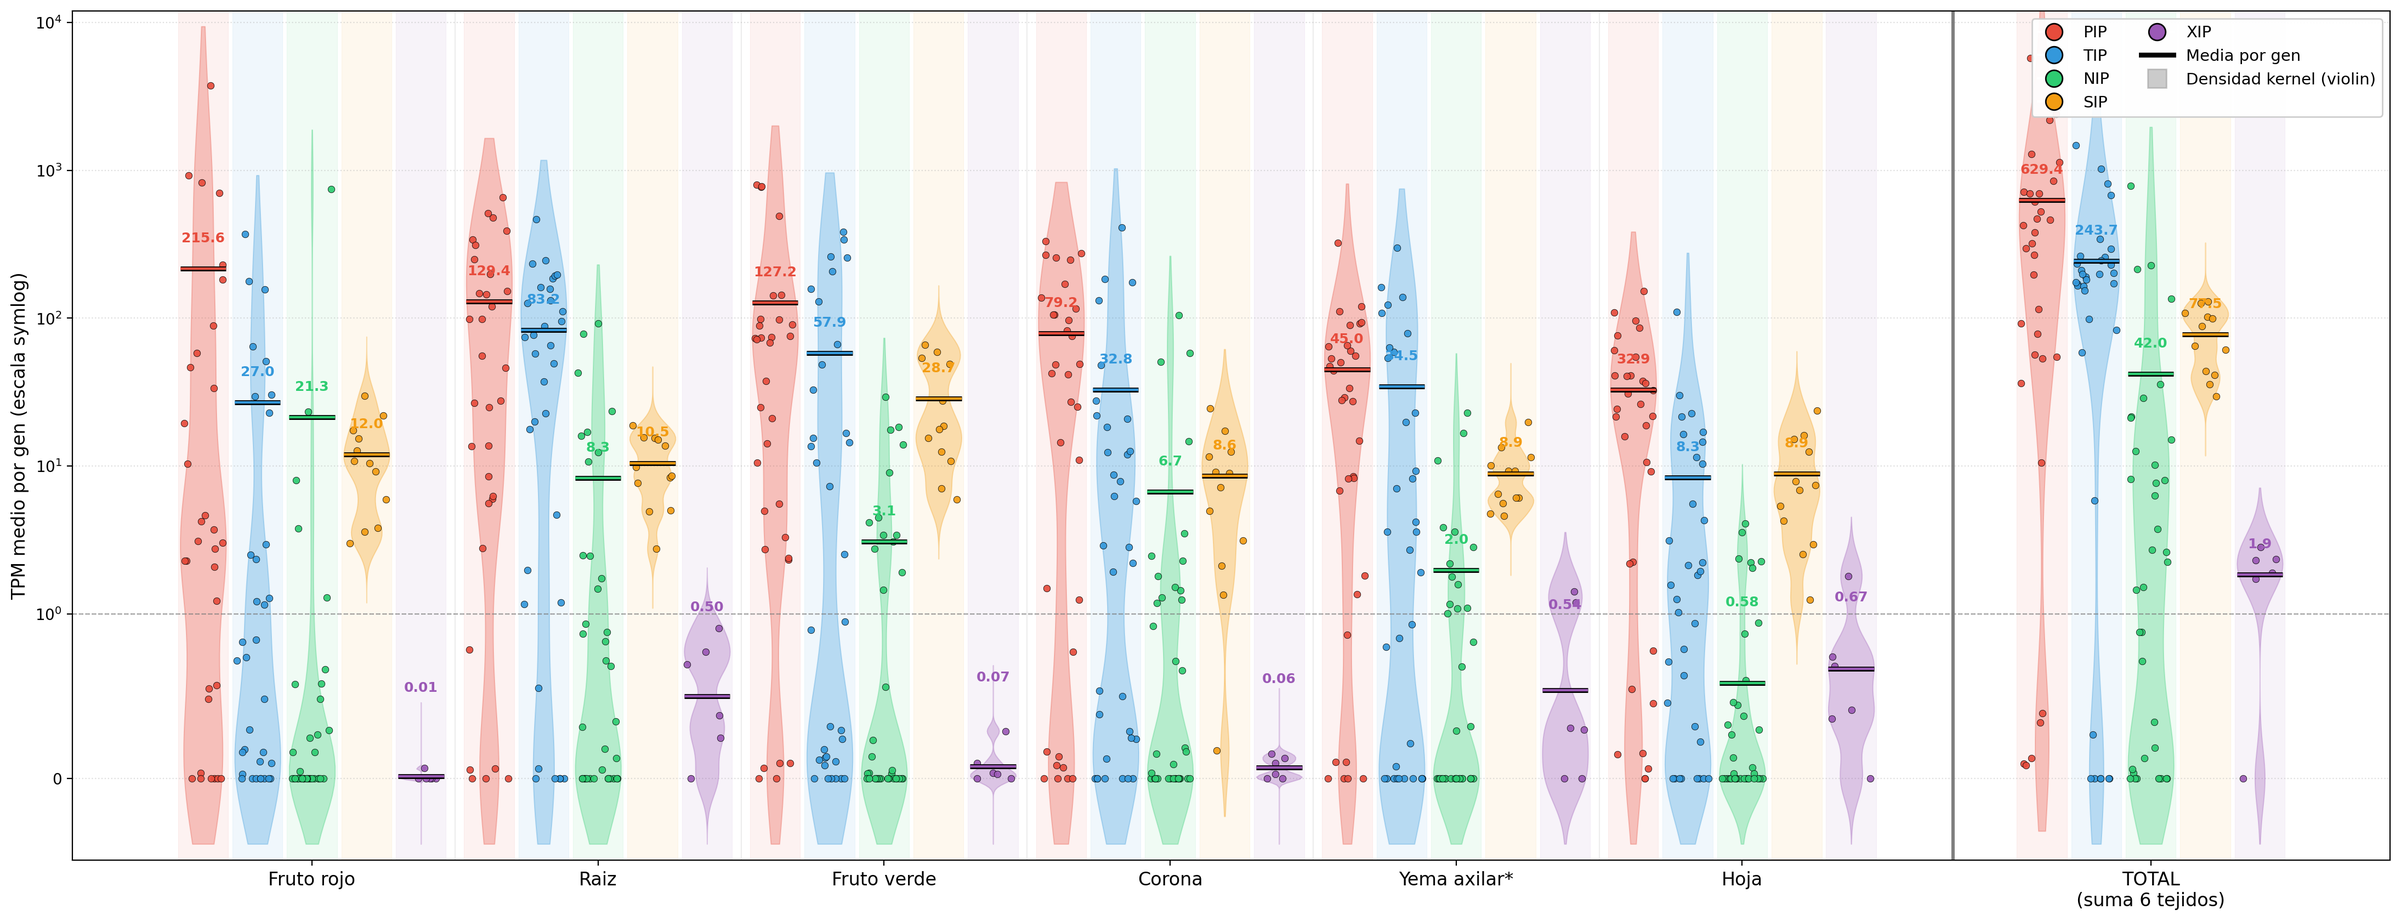
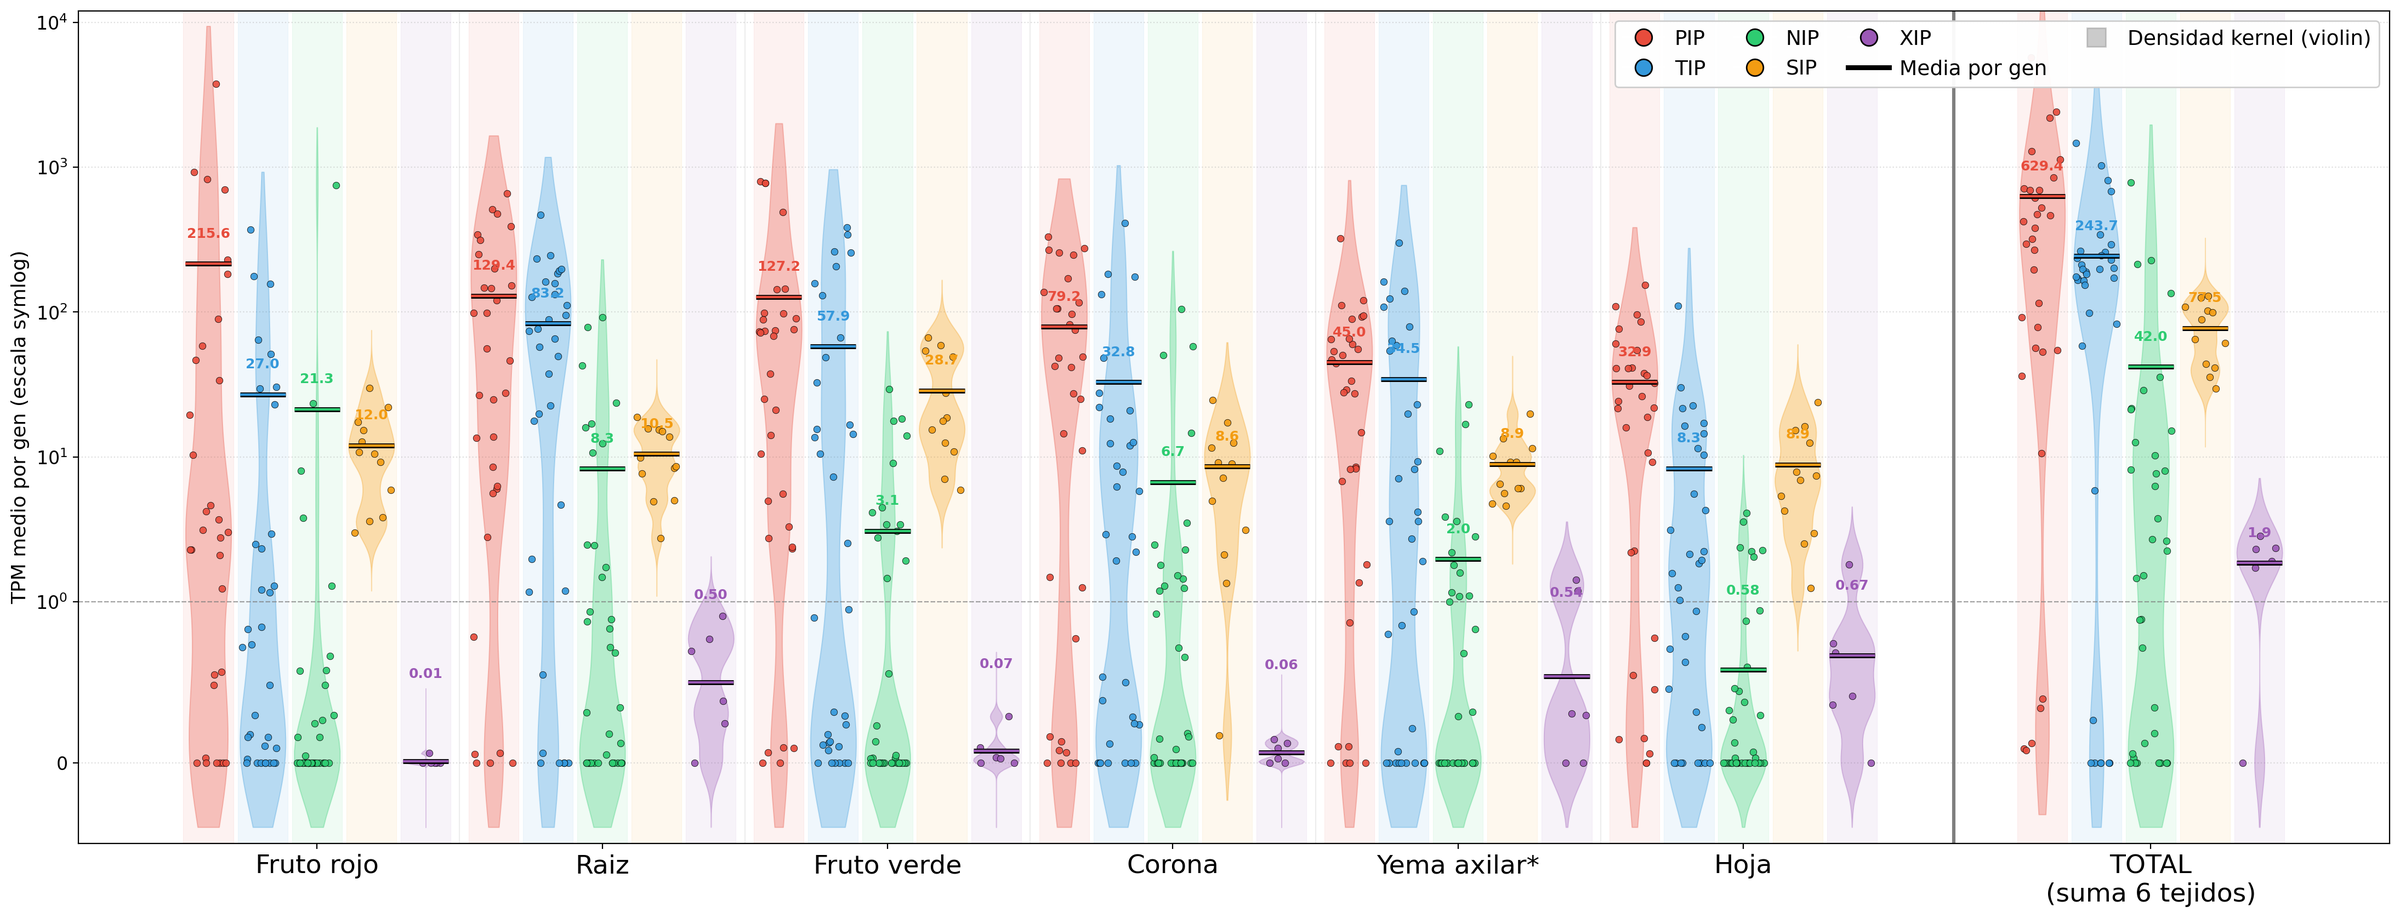
docs(defensa): leyenda Mol* mayor (4), cronologia simplificada (5), quita genoma cuadruple (15), Fig9 ejes/leyenda mas legibles (17)

diff --git a/docs/defensa/index.html b/docs/defensa/index.html
@@ -18,7 +18,7 @@
 
 "• Una acuaporina es un poro de proteína que deja pasar agua a favor de gradiente, de forma pasiva: el agua va de donde sobra a donde falta sin que la célula gaste energía.\n• Por dentro tiene forma de reloj de arena: seis hélices que cruzan la membrana más dos reentrantes, dejando un poro de unos 3 ångström, el ancho justo para una hilera de moléculas de agua.\n• La selectividad la marcan dos filtros: el doble motivo NPA corta el paso de protones y el filtro ar/R afina el tamaño.\n• En la membrana se ensamblan como tetrámeros, pero cada monómero lleva su propio poro: cuatro canales independientes.\n• Esta arquitectura, conservada entre especies, es la que permite reconocer una acuaporina en cualquier genoma; y existe en varios subtipos, cuyos nombres veremos en el catálogo.\n• En pantalla, la estructura real (PDB 1Z98, cadena A, acuaporina de espinaca) en el visor Mol* en vivo, rotable.",
 
-"• Antes de los genes, una pincelada de qué planta es esta, porque explica los subgenomas y los homeólogos. Es contexto conocido, no forma parte del análisis del TFG.\n• La fresa cultivada es alo-octoploide: 2n = 8x = 56. Junta en un mismo núcleo cuatro juegos cromosómicos completos —los subgenomas A, B, C y D— procedentes de cuatro especies diploides distintas; las mejor caracterizadas son F. vesca y F. iinumae, las otras dos no están claras.\n• Esos cuatro genomas acabaron reunidos en dos fresas silvestres octoploides: F. chiloensis (aporta calibre) y F. virginiana (aporta sabor y color).\n• De su cruce espontáneo en Europa, en el siglo XVIII, nació la fresa cultivada, F. x ananassa; 'Benihoppe' es un cultivar moderno. Es, por tanto, una especie muy joven.\n• Idea clave para el final: cuatro subgenomas → cada gen ancestral existe en hasta cuatro copias casi idénticas → esas copias equivalentes son los HOMEÓLOGOS.",
+"• Antes de los genes, una pincelada de qué planta es esta, porque explica los subgenomas y los homeólogos. Es contexto conocido, no forma parte del análisis del TFG.\n• La fresa cultivada es alo-octoploide: 2n = 8x = 56. Junta en un mismo núcleo cuatro juegos cromosómicos completos —los subgenomas A, B, C y D— procedentes de cuatro especies diploides distintas; las mejor caracterizadas son F. vesca y F. iinumae, las otras dos no están claras.\n• Por poliploidía, esos cuatro genomas acabaron reunidos en una sola especie: la fresa cultivada, F. x ananassa, alo-octoploide (2n = 8x = 56). Surgió como híbrida espontánea en Europa en el siglo XVIII; 'Benihoppe' es un cultivar moderno. Es, por tanto, una especie muy joven.\n• Idea clave para el final: cuatro subgenomas → cada gen ancestral existe en hasta cuatro copias casi idénticas → esas copias equivalentes son los HOMEÓLOGOS.",
 
 "• Punto de partida del problema concreto: en la fresa cultivada solo había cuatro acuaporinas descritas funcionalmente, cada una en un estudio independiente a lo largo de más de una década.\n• Son FaPIP1;1 y FaPIP2;1 (membrana plasmática, fruto y raíz), FaNIP1;1 (membrana plasmática, maduración) y FaRB7 (tonoplasto, raíz). Solo tres de los cinco subtipos.\n• La única referencia a escala de genoma era una anotación automática: la predicción MAKER marcaba 147 genes como posibles acuaporinas.\n• Pero eso es exactamente eso, una predicción automática: nunca se comprobó de forma independiente si esos 147 genes son realmente acuaporinas. No había curado estructural, ni una validación paralela, ni nada in vitro o in vivo. No se sabía cuáles eran reales ni a qué subfamilia pertenecían.\n• Por eso el objetivo no era describir un gen más, sino construir por primera vez el inventario completo y comprobado.",
 
@@ -38,7 +38,7 @@
 
 "• Tercer paso: ya tenemos las 121 confirmadas; ahora se ordenan según de quién descienden, como un árbol genealógico agrupa las ramas de una familia.\n• Un árbol filogenético agrupa los genes por el parecido de su secuencia para deducir cuáles comparten antepasado.\n• En la escena, el árbol real reconstruido a partir de 281 secuencias y 430 posiciones; el modelo que mejor explica los datos es Q.PLANT+R6 (log L = −45.149,26).\n• El resultado —las cinco subfamilias como ramas propias con triple soporte— llega en la diapositiva siguiente.",
 
-"• El árbol final integra 281 secuencias y 430 sitios; ModelFinder eligió Q.PLANT+R6 sobre 277 nodos.\n• UFBoot, SH-aLRT y aBayes son tres formas distintas de estimar la fiabilidad de cada rama; que las tres coincidan en valores altos es la mayor garantía. Soportes medianos 91 % / 92,2 % / 1,000.\n• Los tres controles de la literatura caen sobre sus copias predichas con rama casi nula: la asignación acierta. La ratio de 3,2 copias PIP por gen ancestral encaja con la cuadruplicación seguida de pérdida parcial.\n• Detalle que enlaza con el final: en el árbol, las cuatro copias de un mismo grupo homeólogo salen muy juntas y con expresión parecida; por eso después tiene sentido agruparlas.\n• MEME identificó 15 motivos: M1 (el NPA), M3 y M6 están en el 100 % del catálogo; luego cada subfamilia añade su firma propia. El mapa es la Figura 8.",
+"• El árbol final integra 281 secuencias y 430 sitios; ModelFinder eligió Q.PLANT+R6 sobre 277 nodos.\n• UFBoot, SH-aLRT y aBayes son tres formas distintas de estimar la fiabilidad de cada rama; que las tres coincidan en valores altos es la mayor garantía. Soportes medianos 91 % / 92,2 % / 1,000.\n• Los tres controles de la literatura caen sobre sus copias predichas con rama casi nula: la asignación acierta.\n• Detalle que enlaza con el final: en el árbol, las cuatro copias de un mismo grupo homeólogo salen muy juntas y con expresión parecida; por eso después tiene sentido agruparlas.\n• MEME identificó 15 motivos: M1 (el NPA), M3 y M6 están en el 100 % del catálogo; luego cada subfamilia añade su firma propia. El mapa es la Figura 8.",
 
 "• Cuarto y último paso: ya tenemos el catálogo y sabemos cómo se emparentan; ahora, ver cuáles funcionan de verdad y en qué parte de la planta.\n• Cada célula enciende solo los genes que necesita. Leyendo el ARN que produce un tejido sabemos qué acuaporinas tiene activas: eso es la secuenciación de ARN.\n• Trabajamos con 22 transcriptomas (21 analizados tras descartar una raíz por control de calidad), en 6 tejidos —fruto verde, fruto rojo, hoja, raíz, corona y yema axilar— de 4 proyectos públicos.\n• Los miramos en dos situaciones: la planta en reposo y bajo sequía.\n• En la escena, la expresión por tejido proyectada sobre la propia planta.",
 
@@ -239,22 +239,22 @@
           <div style="position: absolute; top: 14px; right: 14px; z-index: 10; padding: 7px 13px; background: rgba(255,255,255,0.94); border-radius: 4px; border: 1px solid var(--rule); font-family: var(--mono); font-size: 13px; color: var(--ink-soft); letter-spacing: 0.08em;">PDB 1Z98 · chain A · SoPIP2;1</div>
         </div>
 
-        <div style="display: grid; grid-template-columns: 1fr 1fr; gap: 8px 28px; padding: 8px 4px;">
-          <div style="display: flex; align-items: center; gap: 10px;">
-            <span style="width: 14px; height: 4px; border-radius: 2px; background: #3498DB; flex-shrink: 0;"></span>
-            <span class="mono" style="font-size: 16px; color: var(--ink);">6 hélices transmembrana</span>
+        <div style="display: grid; grid-template-columns: 1fr 1fr; gap: 14px 36px; padding: 14px 4px;">
+          <div style="display: flex; align-items: center; gap: 14px;">
+            <span style="width: 20px; height: 5px; border-radius: 2px; background: #3498DB; flex-shrink: 0;"></span>
+            <span class="mono" style="font-size: 21px; color: var(--ink);">6 hélices transmembrana</span>
           </div>
-          <div style="display: flex; align-items: center; gap: 10px;">
-            <span style="width: 10px; height: 10px; border-radius: 50%; background: #E74C3C; flex-shrink: 0;"></span>
-            <span class="mono" style="font-size: 16px; color: var(--ink);">doble motivo NPA</span>
+          <div style="display: flex; align-items: center; gap: 14px;">
+            <span style="width: 14px; height: 14px; border-radius: 50%; background: #E74C3C; flex-shrink: 0;"></span>
+            <span class="mono" style="font-size: 21px; color: var(--ink);">doble motivo NPA</span>
           </div>
-          <div style="display: flex; align-items: center; gap: 10px;">
-            <span style="width: 14px; height: 4px; border-radius: 2px; background: #2ECC71; flex-shrink: 0;"></span>
-            <span class="mono" style="font-size: 16px; color: var(--ink);">2 hélices reentrantes</span>
+          <div style="display: flex; align-items: center; gap: 14px;">
+            <span style="width: 20px; height: 5px; border-radius: 2px; background: #2ECC71; flex-shrink: 0;"></span>
+            <span class="mono" style="font-size: 21px; color: var(--ink);">2 hélices reentrantes</span>
           </div>
-          <div style="display: flex; align-items: center; gap: 10px;">
-            <span style="width: 10px; height: 10px; border-radius: 50%; background: #d68910; flex-shrink: 0;"></span>
-            <span class="mono" style="font-size: 16px; color: var(--ink);">filtro ar/R</span>
+          <div style="display: flex; align-items: center; gap: 14px;">
+            <span style="width: 14px; height: 14px; border-radius: 50%; background: #d68910; flex-shrink: 0;"></span>
+            <span class="mono" style="font-size: 21px; color: var(--ink);">filtro ar/R</span>
           </div>
         </div>
       </div>
@@ -304,75 +304,56 @@
       <h2 class="title">Origen de la fresa cultivada: una especie joven y cuádruple</h2>
     </div>
 
-    <!-- Cronología en tres estaciones -->
-    <div style="display: grid; grid-template-columns: 1.15fr 0.12fr 1fr 0.12fr 1fr; gap: 18px; margin-top: 34px; align-items: stretch;">
+    <!-- Cronología en dos estaciones -->
+    <div style="display: grid; grid-template-columns: 1fr 0.18fr 1fr; gap: 22px; margin-top: 40px; align-items: stretch;">
 
-      <!-- Estación 1 · donantes diploides -->
-      <div class="card anim-in-2" style="padding: 26px 26px;">
+      <!-- Estación 1 · cuatro donantes diploides -->
+      <div class="card anim-in-2" style="padding: 32px 34px;">
         <div class="card-title" style="color: var(--c-leaf);">CUATRO ANCESTROS DIPLOIDES</div>
-        <div style="display: flex; flex-direction: column; gap: 12px; margin-top: 10px;">
-          <div style="display: flex; align-items: baseline; gap: 14px;">
-            <span class="italic body" style="font-size: 25px; color: var(--ink);">F. vesca</span>
-            <span class="mono" style="font-size: 21px; color: var(--ink-muted);">→ subgenoma A</span>
+        <div style="display: flex; flex-direction: column; gap: 16px; margin-top: 16px;">
+          <div style="display: flex; align-items: baseline; gap: 16px;">
+            <span class="italic body" style="font-size: 28px; color: var(--ink);">F. vesca</span>
+            <span class="mono" style="font-size: 23px; color: var(--ink-muted);">→ subgenoma A</span>
           </div>
-          <div style="display: flex; align-items: baseline; gap: 14px;">
-            <span class="italic body" style="font-size: 25px; color: var(--ink);">F. iinumae</span>
-            <span class="mono" style="font-size: 21px; color: var(--ink-muted);">→ subgenoma B</span>
+          <div style="display: flex; align-items: baseline; gap: 16px;">
+            <span class="italic body" style="font-size: 28px; color: var(--ink);">F. iinumae</span>
+            <span class="mono" style="font-size: 23px; color: var(--ink-muted);">→ subgenoma B</span>
           </div>
-          <div style="display: flex; align-items: baseline; gap: 14px;">
-            <span class="body" style="font-size: 25px; color: var(--ink-soft);">y dos especies más</span>
-            <span class="mono" style="font-size: 21px; color: var(--ink-muted);">→ subg. C · D</span>
+          <div style="display: flex; align-items: baseline; gap: 16px;">
+            <span class="body" style="font-size: 28px; color: var(--ink-soft);">y dos especies más</span>
+            <span class="mono" style="font-size: 23px; color: var(--ink-muted);">→ subg. C · D</span>
           </div>
         </div>
-        <p class="small" style="font-size: 21px; margin-top: 16px; padding-top: 14px; border-top: 1px solid var(--rule);">
+        <p class="small" style="font-size: 23px; margin-top: 20px; padding-top: 16px; border-top: 1px solid var(--rule);">
           Cuatro fresas silvestres diploides, <span class="leaf-c">una por subgenoma</span>.
         </p>
       </div>
 
-      <div class="anim-in-2" style="display: flex; flex-direction: column; align-items: center; justify-content: center; color: var(--ink-muted);">
-        <div style="font-size: 35px;">→</div>
-        <div class="mono" style="font-size: 14px; writing-mode: horizontal-tb; text-align: center; margin-top: 8px; line-height: 1.3;">poliploidía</div>
-      </div>
-
-      <!-- Estación 2 · octoploides silvestres -->
-      <div class="card anim-in-3" style="padding: 26px 26px;">
-        <div class="card-title">DOS OCTOPLOIDES SILVESTRES</div>
-        <div style="margin-top: 4px;">
-          <div class="italic body" style="font-size: 25px; color: var(--ink);">F. chiloensis</div>
-          <p class="small" style="font-size: 21px; margin: 2px 0 12px;">Sudamérica · aporta el <span class="fruit-c">calibre</span></p>
-          <div class="italic body" style="font-size: 25px; color: var(--ink);">F. virginiana</div>
-          <p class="small" style="font-size: 21px; margin: 2px 0 0;">Norteamérica · aporta <span class="fruit-c">sabor y color</span></p>
-        </div>
-        <p class="small" style="font-size: 20px; margin-top: 14px; padding-top: 12px; border-top: 1px solid var(--rule);">
-          Ambas <span class="mono">2n = 8x = 56</span>.
-        </p>
-      </div>
-
       <div class="anim-in-3" style="display: flex; flex-direction: column; align-items: center; justify-content: center; color: var(--ink-muted);">
-        <div style="font-size: 35px;">→</div>
-        <div class="mono" style="font-size: 13px; text-align: center; margin-top: 8px; line-height: 1.3;">Europa<br/>s. XVIII</div>
+        <div style="font-size: 48px;">→</div>
+        <div class="mono" style="font-size: 17px; text-align: center; margin-top: 12px; line-height: 1.3;">poliploidía</div>
       </div>
 
-      <!-- Estación 3 · cultivada -->
-      <div class="card anim-in-4" style="padding: 26px 26px;">
+      <!-- Estación 2 · la fresa cultivada alo-octoploide -->
+      <div class="card anim-in-3" style="padding: 32px 34px;">
         <div class="card-title" style="color: var(--c-fruit);">LA FRESA CULTIVADA</div>
-        <div style="margin-top: 4px;">
-          <div class="italic body" style="font-size: 25px; color: var(--ink);">F. x ananassa</div>
-          <p class="small" style="font-size: 21px; margin: 2px 0 12px;">Híbrida espontánea en Europa, <span class="muted">s. XVIII</span></p>
-          <div class="body" style="font-size: 25px; color: var(--ink);">'Benihoppe'</div>
-          <p class="small" style="font-size: 21px; margin: 2px 0 0;">cultivar del estudio · Japón, 1994</p>
+        <div style="margin-top: 16px;">
+          <div class="italic body" style="font-size: 28px; color: var(--ink);">F. x ananassa</div>
+          <p class="small" style="font-size: 23px; margin: 6px 0 16px; line-height: 1.4;">Alo-octoploide: reúne los <span class="leaf-c">cuatro subgenomas</span> en un mismo núcleo · <span class="mono">2n = 8x = 56</span></p>
+          <div class="body" style="font-size: 28px; color: var(--ink);">'Benihoppe'</div>
+          <p class="small" style="font-size: 23px; margin: 6px 0 0;">cultivar del estudio · Japón, 1994</p>
         </div>
-        <p class="small" style="font-size: 20px; margin-top: 14px; padding-top: 12px; border-top: 1px solid var(--rule);">
-          Apenas <span class="fruit-c">~300 años</span> como especie.
+        <p class="small" style="font-size: 22px; margin-top: 20px; padding-top: 16px; border-top: 1px solid var(--rule);">
+          Híbrida espontánea en Europa · apenas <span class="fruit-c">~300 años</span> como especie.
         </p>
       </div>
 
     </div>
 
     <!-- Takeaway · homeólogos -->
-    <div class="anim-in-4" style="margin-top: 26px; padding: 20px 30px; border-radius: 6px; background: var(--bg-elev-2); border: 1px solid var(--rule); display: flex; align-items: center; gap: 26px;">
-      <div class="mono leaf-c" style="font-size: 21px; letter-spacing: 0.14em; flex-shrink: 0;">IDEA CLAVE</div>
-      <p class="body" style="font-size: 26px; line-height: 1.4; margin: 0; color: var(--ink-soft);">
+    <div class="anim-in-4" style="margin-top: 38px; padding: 28px 38px; border-radius: 6px; background: var(--bg-elev-2); border: 1px solid var(--rule); display: flex; align-items: center; gap: 30px;">
+      <div class="mono leaf-c" style="font-size: 22px; letter-spacing: 0.14em; flex-shrink: 0;">IDEA CLAVE</div>
+      <p class="body" style="font-size: 28px; line-height: 1.45; margin: 0; color: var(--ink-soft);">
         Cuatro subgenomas (A · B · C · D) significan que cada gen ancestral existe en <span class="fruit-c" style="font-weight: 500;">hasta cuatro copias</span> casi idénticas. A esas copias equivalentes, una por subgenoma, se las llama <span class="leaf-c" style="font-weight: 500;">homeólogos</span> — concepto que retomaremos al final.
       </p>
     </div>
@@ -890,12 +871,12 @@
     </div>
 
     <!-- Banda 1 · validación -->
-    <div style="display: grid; grid-template-columns: 1.2fr 1fr 1fr; gap: 40px; margin-top: 28px; align-items: flex-start;">
+    <div style="display: grid; grid-template-columns: 1.5fr 1fr; gap: 56px; margin-top: 28px; align-items: flex-start;">
 
       <div class="anim-in-2">
         <div class="eyebrow muted" style="font-size: 19px; margin-bottom: 14px;">CINCO SUBFAMILIAS MONOFILÉTICAS</div>
         <p class="body" style="font-size: 23px; line-height: 1.4; color: var(--ink-soft); margin: 0 0 16px;">Cada subfamilia forma una rama propia y completa: el parentesco confirma la clasificación.</p>
-        <div style="display: flex; gap: 24px; align-items: baseline;">
+        <div style="display: flex; gap: 36px; align-items: baseline;">
           <div><div class="megafig water-c" style="font-size: 48px; line-height: 1;">91 %</div><div class="small" style="font-size: 19px;">UFBoot</div></div>
           <div><div class="megafig water-c" style="font-size: 48px; line-height: 1;">92,2 %</div><div class="small" style="font-size: 19px;">SH-aLRT</div></div>
           <div><div class="megafig water-c" style="font-size: 48px; line-height: 1;">1,000</div><div class="small" style="font-size: 19px;">aBayes</div></div>
@@ -907,12 +888,6 @@
         <div class="eyebrow fruit" style="font-size: 19px; margin-bottom: 14px;">CONTROLES INTERNOS</div>
         <div class="megafig grow fruit-c" style="font-size: 64px; line-height: 1;">3 / 3</div>
         <p class="body" style="font-size: 22px; line-height: 1.4; margin-top: 14px; color: var(--ink-soft);"><span class="mono fruit-c" style="font-size: 18px;">FaPIP1;1</span>, <span class="mono fruit-c" style="font-size: 18px;">FaPIP2;1</span> y <span class="mono fruit-c" style="font-size: 18px;">FaNIP1;1</span> caen sobre sus copias predichas.</p>
-      </div>
-
-      <div class="anim-in-3">
-        <div class="eyebrow leaf-c" style="font-size: 19px; margin-bottom: 14px;">GENOMA CUÁDRUPLE</div>
-        <div class="megafig grow leaf-c" style="font-size: 64px; line-height: 1;">3,2x</div>
-        <p class="body" style="font-size: 22px; line-height: 1.4; margin-top: 14px; color: var(--ink-soft);">Copias PIP por gen de <span class="italic">F. vesca</span>: cuadruplicación con fraccionamiento parcial.</p>
       </div>
 
     </div>
@@ -980,7 +955,7 @@
     <div style="display: grid; grid-template-columns: 1.45fr 0.55fr; gap: 56px; margin-top: 30px; align-items: center;">
 
       <div class="anim-in-2" style="background: #ffffff; border-radius: 4px; padding: 18px; max-height: 720px; display: flex; align-items: center; justify-content: center;">
-        <img src="assets/figuras/Figura_09_TPM_basal.png" alt="Expresión basal por tejido (TPM)" style="width: 100%; max-height: 690px; object-fit: contain; display: block;"/>
+        <img src="assets/figuras/Figura_09_TPM_basal.png?v=20260611-01" alt="Expresión basal por tejido (TPM)" style="width: 100%; max-height: 690px; object-fit: contain; display: block;"/>
       </div>
 
       <div class="anim-in-3" style="display: flex; flex-direction: column; gap: 22px;">
